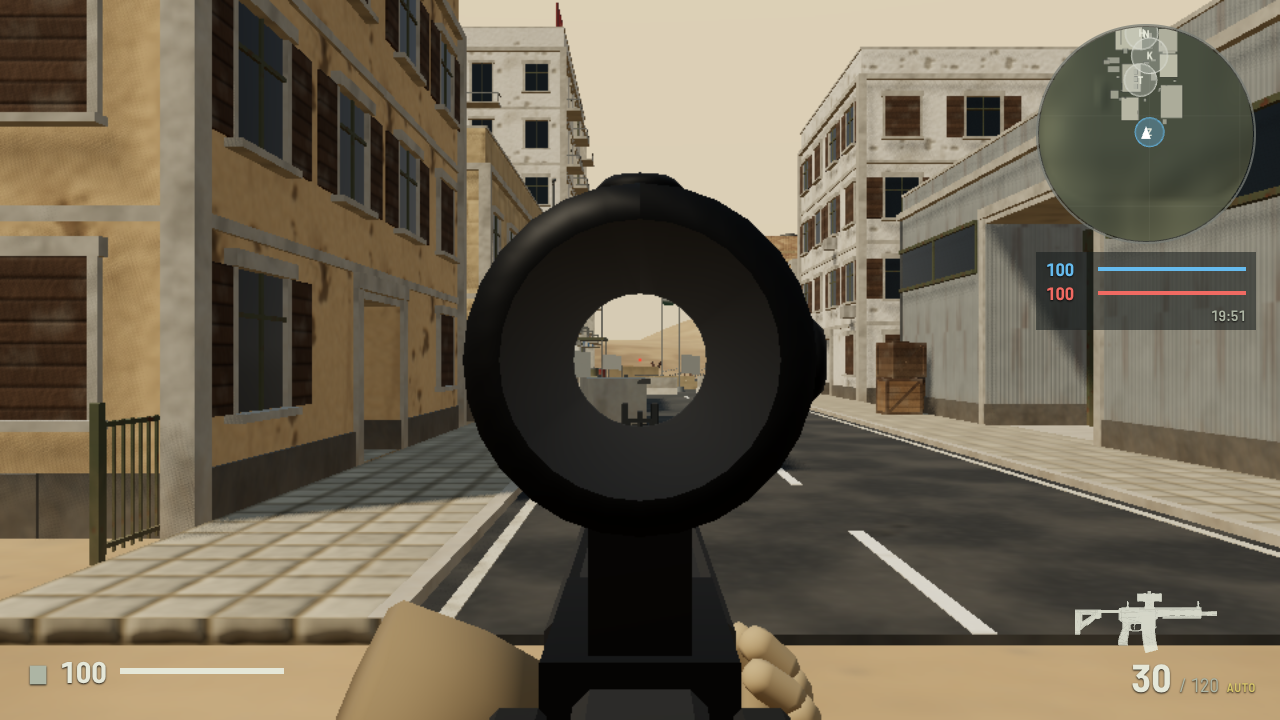
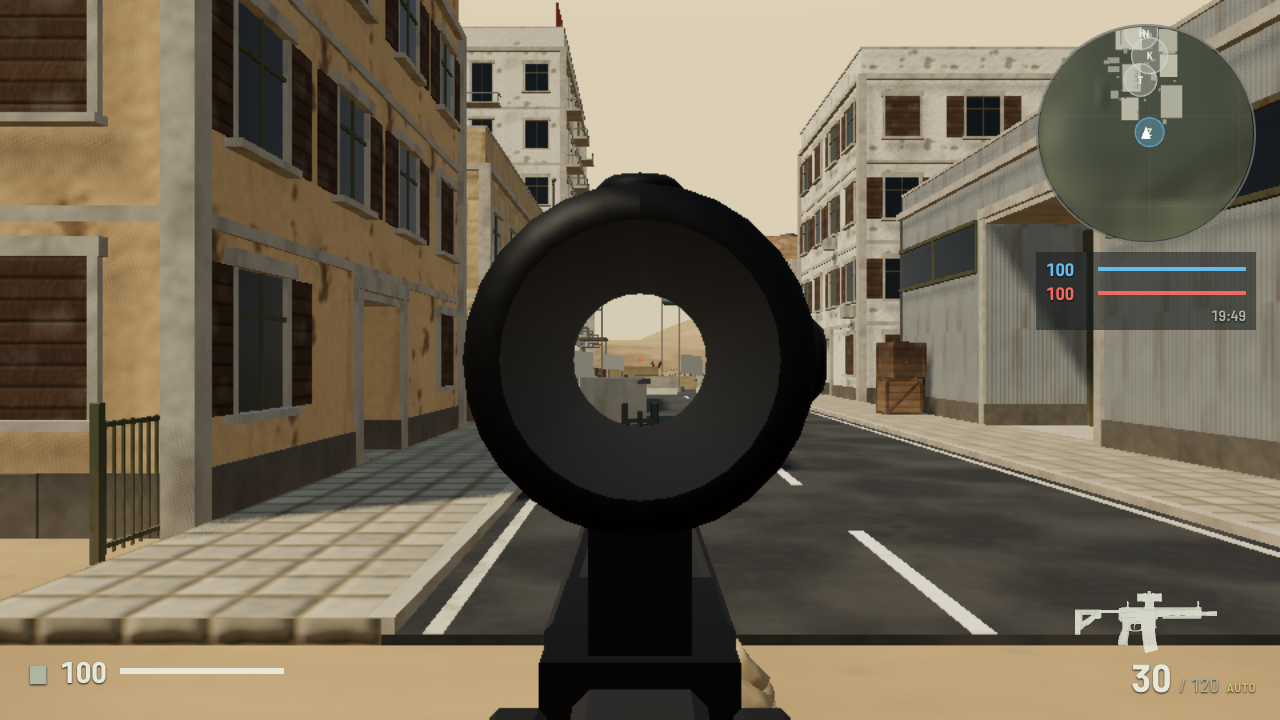
První osoba: paže z modelu Mannequin (IK ramen, prsty podle úchopu), nová póza zbraně (bok a zásobník viditelné), pistole vpravo dole
Claude-Session: https://claude.ai/code/session_01RUV9x3ZU17R7VZCUpn9NGM

Changed region(s): [[0.25, 0.825, 0.4375, 1.0], [0.5625, 0.8556, 0.6562, 1.0]]

diff --git a/src/client/render/weapons/fpArms.ts b/src/client/render/weapons/fpArms.ts
@@ -1,0 +1,199 @@
+import * as THREE from 'three';
+import { clone as cloneSkinned } from 'three/examples/jsm/utils/SkeletonUtils.js';
+import { mannequinSource } from '../soldier/mannequin';
+import type { Hand } from './hands';
+
+/**
+ * Paže v první osobě z modelu Quaternius Mannequin (CC0) – stejné tělo jako vzdálení vojáci.
+ * Kreslí se jen paže (rameno → prsty). Zápěstí, natočení dlaně a ohyb prstů přebírají
+ * z procedurálního rigu rukou (ten zná úchopy rukojeti, předpažbí, zásobníku i páky);
+ * rameno a loket dopočítá dvoukloubová IK s loktem dole a vně (mimo obraz).
+ */
+const ARM = /^(upperarm|lowerarm|hand|index|middle|ring|pinky|thumb)_/;
+const HANDISH = /^(hand|index|middle|ring|pinky|thumb)_/;
+const FINGERS = ['index', 'middle', 'ring', 'pinky'] as const;
+const HAND_SCALE = 0.75;
+
+interface Side {
+  s: 'l' | 'r';
+  upper: THREE.Bone;
+  lower: THREE.Bone;
+  hand: THREE.Bone;
+  /** Lokální směr prstů a hřbetu kosti ruky (klidová póza). */
+  fLocal: THREE.Vector3;
+  bLocal: THREE.Vector3;
+  fingers: Array<{ bone: THREE.Bone; rest: THREE.Quaternion; axis: THREE.Vector3 }[]>;
+  thumb: { bone: THREE.Bone; rest: THREE.Quaternion; axis: THREE.Vector3 }[];
+  lenUpper: number;
+  lenLower: number;
+}
+
+const _m = new THREE.Matrix4();
+const _q = new THREE.Quaternion();
+
+function basis(f: THREE.Vector3, b: THREE.Vector3): THREE.Quaternion {
+  const x = f.clone().normalize();
+  const y = b.clone().sub(x.clone().multiplyScalar(b.dot(x))).normalize();
+  const z = new THREE.Vector3().crossVectors(x, y);
+  return new THREE.Quaternion().setFromRotationMatrix(_m.makeBasis(x, y, z));
+}
+
+/** Nastaví světovou rotaci (a volitelně polohu) kosti přes inverzi rodiče. */
+function setWorld(bone: THREE.Bone, q: THREE.Quaternion, pos?: THREE.Vector3) {
+  const parent = bone.parent!;
+  parent.updateWorldMatrix(true, false);
+  parent.getWorldQuaternion(_q);
+  bone.quaternion.copy(_q.invert().multiply(q));
+  if (pos) bone.position.copy(parent.worldToLocal(pos.clone()));
+  bone.updateMatrixWorld(true);
+}
+
+export class FPArms {
+  readonly root = new THREE.Group();
+  private sides: Side[] = [];
+
+  /** `sleeve` a `glove` = materiály rukávu a rukavice (stejné jako u procedurálních rukou). */
+  constructor(sleeve: THREE.Material, glove: THREE.Material, gloveColor: THREE.ColorRepresentation) {
+    const src = mannequinSource()!;
+    const scene = cloneSkinned(src);
+    this.root.add(scene);
+    const bones = new Map<string, THREE.Bone>();
+    scene.traverse((o) => {
+      if ((o as THREE.Bone).isBone) bones.set(o.name, o as THREE.Bone);
+    });
+    // Geometrie: jen trojúhelníky paží; skupina 0 = rukáv, 1 = ruka (rukavice).
+    scene.traverse((o) => {
+      const m = o as THREE.SkinnedMesh;
+      if (!m.isSkinnedMesh) return;
+      m.geometry = armsOnly(m.geometry, m.skeleton, new THREE.Color(gloveColor));
+      m.material = [sleeve, glove];
+      m.frustumCulled = false;
+      m.castShadow = false;
+    });
+    scene.updateMatrixWorld(true);
+    for (const s of ['l', 'r'] as const) {
+      const B = (n: string) => bones.get(`${n}_${s}`)!;
+      const hand = B('hand');
+      const wq = hand.getWorldQuaternion(new THREE.Quaternion());
+      const hp = hand.getWorldPosition(new THREE.Vector3());
+      // T-póza: prsty vodorovně ven, dlaň dolů (hřbet +Y).
+      const fWorld = B('middle_01').getWorldPosition(new THREE.Vector3()).sub(hp).normalize();
+      const inv = wq.clone().invert();
+      const mk = (name: string) => {
+        const bone = bones.get(name)!;
+        const child = bone.children.find((c) => (c as THREE.Bone).isBone);
+        const p0 = bone.getWorldPosition(new THREE.Vector3());
+        const dir = child ? child.getWorldPosition(new THREE.Vector3()).sub(p0).normalize() : fWorld.clone();
+        // Osa ohybu: k dlani (−hřbet) → osa = hřbet × směr článku, v lokálním prostoru kosti.
+        const axisW = new THREE.Vector3(0, 1, 0).cross(dir).normalize();
+        const bq = bone.getWorldQuaternion(new THREE.Quaternion()).invert();
+        return { bone, rest: bone.quaternion.clone(), axis: axisW.applyQuaternion(bq).normalize() };
+      };
+      // Ruka Mannequinu (dlaň 12 cm) je větší než rig úchopů (8,8 cm) – zmenšit, ať prsty obejmou rukojeť.
+      hand.scale.setScalar(HAND_SCALE);
+      this.sides.push({
+        s,
+        upper: B('upperarm'),
+        lower: B('lowerarm'),
+        hand,
+        fLocal: fWorld.clone().applyQuaternion(inv),
+        bLocal: new THREE.Vector3(0, 1, 0).applyQuaternion(inv),
+        fingers: FINGERS.map((f) => [1, 2, 3].map((k) => mk(`${f}_0${k}_${s}`))),
+        thumb: [1, 2, 3].map((k) => mk(`thumb_0${k}_${s}`)),
+        lenUpper: B('lowerarm').position.length(),
+        lenLower: hand.position.length(),
+      });
+    }
+  }
+
+  /**
+   * Snímek: ruce (`right`, `left`) už stojí na úchopech; `space` = rodič paží (prezentace),
+   * ramena a lokty jsou v jeho souřadnicích.
+   */
+  update(right: Hand, left: Hand, space: THREE.Object3D, shoulders: { r: THREE.Vector3; l: THREE.Vector3 }, elbows: { r: THREE.Vector3; l: THREE.Vector3 }) {
+    space.updateWorldMatrix(true, false);
+    for (const side of this.sides) {
+      const h = side.s === 'r' ? right : left;
+      const fr = h.frame();
+      const shoulder = space.localToWorld((side.s === 'r' ? shoulders.r : shoulders.l).clone());
+      const pole = space.localToWorld((side.s === 'r' ? elbows.r : elbows.l).clone());
+      // Dvoukloubová IK: loket v rovině rameno–zápěstí–pól.
+      const a = side.lenUpper, b = side.lenLower;
+      const toW = fr.wrist.clone().sub(shoulder);
+      const d = Math.min(toW.length(), (a + b) * 0.999);
+      const dir = toW.clone().normalize();
+      const cosA = (a * a + d * d - b * b) / (2 * a * d);
+      const along = a * cosA, up = Math.sqrt(Math.max(0, a * a - along * along));
+      const pv = pole.clone().sub(shoulder);
+      const perp = pv.sub(dir.clone().multiplyScalar(pv.dot(dir))).normalize();
+      const elbow = shoulder.clone().add(dir.clone().multiplyScalar(along)).add(perp.multiplyScalar(up));
+      // Paže: osa kosti k dítěti → mířit na cíl (minimální rotace z klidu kosti).
+      this.aim(side.upper, side.lower, elbow, shoulder);
+      this.aim(side.lower, side.hand, fr.wrist);
+      // Ruka: prsty a hřbet z rigu, poloha = zápěstí.
+      const target = basis(fr.fingers, fr.back).multiply(basis(side.fLocal, side.bLocal).invert());
+      setWorld(side.hand, target, fr.wrist);
+      // Prsty a palec.
+      const c = h.curls();
+      side.fingers.forEach((chain, fi) => chain.forEach((j, k) => j.bone.quaternion.copy(j.rest).multiply(_q.setFromAxisAngle(j.axis, c.fingers[fi][k] ?? 0))));
+      // Palec: ohyb z rigu, zesílený (palec Mannequinu je v T-póze natažený podél prstů).
+      side.thumb.forEach((j, k) => j.bone.quaternion.copy(j.rest).multiply(_q.setFromAxisAngle(j.axis, 0.25 + (c.thumb[k] ?? 0) * 1.4)));
+    }
+  }
+
+  /** Natočí kost tak, aby mířila (ke svému dítěti) na bod `to`; `from` = nová poloha kořene. */
+  private aim(bone: THREE.Bone, child: THREE.Object3D, to: THREE.Vector3, from?: THREE.Vector3) {
+    if (from) {
+      bone.parent!.updateWorldMatrix(true, false);
+      bone.position.copy(bone.parent!.worldToLocal(from.clone()));
+    }
+    bone.updateMatrixWorld(true);
+    const p0 = bone.getWorldPosition(new THREE.Vector3());
+    const cur = child.getWorldPosition(new THREE.Vector3()).sub(p0).normalize();
+    const want = to.clone().sub(p0).normalize();
+    const wq = bone.getWorldQuaternion(new THREE.Quaternion()).premultiply(new THREE.Quaternion().setFromUnitVectors(cur, want));
+    setWorld(bone, wq);
+  }
+
+  dispose() {
+    this.root.removeFromParent();
+  }
+}
+
+/** Geometrie jen s trojúhelníky paží (dominantní kost), rozdělená na rukáv a ruku. */
+function armsOnly(src: THREE.BufferGeometry, sk: THREE.Skeleton, gloveColor: THREE.Color): THREE.BufferGeometry {
+  const g0 = src.index ? src.toNonIndexed() : src;
+  const si = g0.getAttribute('skinIndex'), sw = g0.getAttribute('skinWeight');
+  const sleeve: number[] = [], hand: number[] = [];
+  for (let i = 0; i < g0.getAttribute('position').count; i += 3) {
+    let best = 0, bw = -1;
+    for (let k = 0; k < 4; k++) if (sw.getComponent(i, k) > bw) {
+      bw = sw.getComponent(i, k);
+      best = si.getComponent(i, k);
+    }
+    const name = sk.bones[best]?.name ?? '';
+    if (!ARM.test(name)) continue;
+    (HANDISH.test(name) ? hand : sleeve).push(i, i + 1, i + 2);
+  }
+  const order = [...sleeve, ...hand];
+  const out = new THREE.BufferGeometry();
+  for (const [name, attr] of Object.entries(g0.attributes)) {
+    const a = attr as THREE.BufferAttribute;
+    const arr = new Float32Array(order.length * a.itemSize);
+    // Kvantované atributy (meshopt) → přes getX/Y/Z/W, které hodnoty denormalizují.
+    const get = [a.getX, a.getY, a.getZ, a.getW];
+    order.forEach((v, j) => {
+      for (let c = 0; c < a.itemSize; c++) arr[j * a.itemSize + c] = get[c].call(a, v);
+    });
+    out.setAttribute(name, new THREE.BufferAttribute(arr, a.itemSize));
+  }
+  // Barvy vrcholů: rukáv bílý (barvu dává kamufláž materiálu), ruka barvou rukavice / kůže.
+  const col = new Float32Array(order.length * 3).fill(1);
+  for (let j = sleeve.length; j < order.length; j++) col.set([gloveColor.r, gloveColor.g, gloveColor.b], j * 3);
+  out.setAttribute('color', new THREE.BufferAttribute(col, 3));
+  if (!out.getAttribute('uv')) out.setAttribute('uv', new THREE.BufferAttribute(new Float32Array(order.length * 2), 2));
+  out.addGroup(0, sleeve.length, 0);
+  out.addGroup(sleeve.length, hand.length, 1);
+  out.computeBoundingSphere();
+  return out;
+}

diff --git a/src/client/render/weapons/fpWeapon.ts b/src/client/render/weapons/fpWeapon.ts
@@ -7,6 +7,8 @@ import { mergeGeometries } from 'three/examples/jsm/utils/BufferGeometryUtils.js
 import type { WeaponModel } from './types';
 import { buildFirstPerson, weaponDef } from './catalog';
 import { HAND_LOOKS, Hand, POSES, buildHandGeometry, makeCamoTexture, type HandGeometry } from './hands';
+import { FPArms } from './fpArms';
+import { mannequinSource } from '../soldier/mannequin';
 
 /**
  * Zbraň a ruce v první osobě (libovolný hotový model z katalogu). Hierarchie:
@@ -76,6 +78,11 @@ export class FPWeapon {
   private weaponRoot = new THREE.Group();
   readonly model: WeaponModel;
   private handGeo: HandGeometry;
+  /** Paže z modelu (Mannequin), pokud je načtený; jinak se kreslí procedurální ruce. */
+  private arms: FPArms | null = null;
+  /** Ramena v prostoru pohledu (za a pod okem). */
+  shoulderR = new THREE.Vector3(0.19, -0.3, 0.06);
+  shoulderL = new THREE.Vector3(-0.2, -0.3, -0.02);
   private rightHand: Hand;
   private leftHand: Hand;
   private mag: THREE.Mesh;
@@ -214,6 +221,12 @@ export class FPWeapon {
     }
     this.rightHand.setPose(POSES.grip);
     this.leftHand.setPose(POSES.handguard);
+    if (mannequinSource()) {
+      this.arms = new FPArms(sleeve, glove, look.bare ? look.skin : look.glove);
+      this.presentation.add(this.arms.root);
+      this.rightHand.hideGeometry();
+      this.leftHand.hideGeometry();
+    }
 
     // Záblesk z ústí: zkřížené plochy s aditivní hvězdou (pool = 1 instance, náhodná rotace).
     this.flash = this.makeFlash();
@@ -338,21 +351,26 @@ export class FPWeapon {
       if (emptyBolt) target.lerp(bolt, boltT);
       target.lerp(base, home);
       this.leftHand.setPose(toMag > 0.5 && home < 0.5 && boltT < 0.5 ? POSES.magazine : POSES.handguard, 0.25);
-    } else this.leftHand.setPose(this.model.slideCycle ? POSES.grip : POSES.handguard, 0.3);
+    } else this.leftHand.setPose(this.model.slideCycle ? POSES.support : POSES.handguard, 0.3);
     lh.position.copy(target);
   }
+
+  /** Lokty v prostoru pohledu (mimo obraz): pravý vpravo dole u těla, levý vlevo dole pod předpažbím. */
+  elbowR = new THREE.Vector3(0.26, -0.5, 0.12);
+  elbowL = new THREE.Vector3(-0.26, -0.5, -0.02);
 
   /** Orientace předloktí od zápěstí k loktu mimo obraz (lokty v prostoru prezentace → svět). */
   private placeForearms() {
     this.presentation.updateMatrixWorld(true);
     for (const [h, elbowLocal] of [
-      [this.rightHand, new THREE.Vector3(0.26, -0.5, 0.12)],
-      [this.leftHand, new THREE.Vector3(-0.26, -0.5, -0.02)],
+      [this.rightHand, this.elbowR],
+      [this.leftHand, this.elbowL],
     ] as const) {
       const wristLocal = h.root.position.clone().applyMatrix4(this.weaponRoot.matrix);
       h.forearm.position.copy(wristLocal);
       h.forearm.lookAt(this.presentation.localToWorld(elbowLocal.clone()));
     }
+    this.arms?.update(this.rightHand, this.leftHand, this.presentation, { r: this.shoulderR, l: this.shoulderL }, { r: this.elbowR, l: this.elbowL });
   }
 
   /**

diff --git a/src/client/render/weapons/hands.ts b/src/client/render/weapons/hands.ts
@@ -45,8 +45,10 @@ export interface FingerPose {
   triggerOff?: boolean;
 }
 
-export const POSES: Record<'grip' | 'handguard' | 'magazine' | 'open', FingerPose> = {
+export const POSES: Record<'grip' | 'support' | 'handguard' | 'magazine' | 'open', FingerPose> = {
   grip: { fingers: [[0.15, 0.25, 0.2], [1.25, 1.35, 0.7], [1.3, 1.4, 0.75], [1.35, 1.4, 0.8]], thumb: [0.9, 0.4, 0.3], triggerOff: true },
+  /** Podpůrná ruka u pistole: celá dlaň obejme pravou ruku (bez prstu na spoušti). */
+  support: { fingers: [[1.1, 1.2, 0.6], [1.2, 1.3, 0.7], [1.25, 1.35, 0.7], [1.3, 1.35, 0.75]], thumb: [0.6, 0.3, 0.2] },
   handguard: { fingers: [[0.9, 1.1, 0.6], [1.0, 1.15, 0.65], [1.05, 1.2, 0.7], [1.1, 1.2, 0.7]], thumb: [0.4, 0.2, 0.1] },
   magazine: { fingers: [[0.9, 0.9, 0.5], [1.0, 1.0, 0.55], [1.05, 1.05, 0.6], [1.1, 1.1, 0.6]], thumb: [0.7, 0.5, 0.3] },
   open: { fingers: [[0.15, 0.2, 0.1], [0.2, 0.25, 0.1], [0.25, 0.25, 0.15], [0.3, 0.3, 0.15]], thumb: [0.5, 0.1, 0.05] },
@@ -116,6 +118,29 @@ export class Hand {
     arm.frustumCulled = false;
     this.forearm.add(arm);
     void mats.skin;
+  }
+
+  /** Rámec ruky pro model paží: zápěstí ve světě, směr prstů a hřbetu (zrcadlení už započtené). */
+  frame(): { wrist: THREE.Vector3; fingers: THREE.Vector3; back: THREE.Vector3 } {
+    const holder = this.root.children[0];
+    holder.updateWorldMatrix(true, false);
+    const o = holder.localToWorld(new THREE.Vector3());
+    return {
+      wrist: o,
+      fingers: holder.localToWorld(new THREE.Vector3(0, 0, -1)).sub(o).normalize(),
+      back: holder.localToWorld(new THREE.Vector3(0, 1, 0)).sub(o).normalize(),
+    };
+  }
+
+  /** Ohyb prstů (rad, kladně = sevřít): [ukazovák, prostředník, prsteník, malík][článek], palec [3]. */
+  curls(): { fingers: number[][]; thumb: number[] } {
+    return { fingers: this.bones.map((ch) => ch.map((b) => -b.rotation.x)), thumb: this.thumbB.map((b) => -b.rotation.x) };
+  }
+
+  /** Skryje vlastní geometrii ruky a předloktí (kreslí je model paží). */
+  hideGeometry() {
+    this.mesh.visible = false;
+    for (const c of this.forearm.children) c.visible = false;
   }
 
   setPose(p: FingerPose, blend = 1) {

diff --git a/src/client/render/weapons/glbWeapon.ts b/src/client/render/weapons/glbWeapon.ts
@@ -174,7 +174,7 @@ export function buildGlbWeapon(id: string, proc: WeaponModel): WeaponModel | nul
   })(), all.min.z);
   muzzle.z = Math.min(muzzle.z, all.min.z + 0.002);
   const pistol = proc.slideCycle === true;
-  const gripRight = trigger.clone().add(new THREE.Vector3(0, pistol ? -0.05 : -0.045, pistol ? 0.028 : 0.042));
+  const gripRight = trigger.clone().add(new THREE.Vector3(0, pistol ? -0.028 : -0.045, pistol ? 0.03 : 0.042));
   const pumpT = by(pumpBones);
   const pumpCenter = pumpT.length ? bounds(pumpT).getCenter(new THREE.Vector3()) : null;
   const railBottom = J('Attach_RailBottom');
@@ -284,7 +284,10 @@ export function buildGlbWeapon(id: string, proc: WeaponModel): WeaponModel | nul
   const staticG = geom(staticTris);
   const metal = metalOptic.length ? mergeLike(staticGeomFor(metalOptic)) : emptyLike();
   const procAdjust = proc.hipRoot.clone().sub(hipFromGrip(proc.points.gripRight));
-  const hipRoot = hipFromGrip(gripRight).add(procAdjust).add(new THREE.Vector3(...(spec.hipAdjust ?? [0, 0, 0])));
+  // Pistole: vpravo dole, natočená dopředu (ne svisle uprostřed obrazu).
+  const hipRoot = pistol
+    ? hipFromGrip(gripRight, [-0.02, 0.035, -0.044])
+    : hipFromGrip(gripRight).add(procAdjust).add(new THREE.Vector3(...(spec.hipAdjust ?? [0, 0, 0])));
   return {
     ...proc,
     id,
@@ -298,6 +301,8 @@ export function buildGlbWeapon(id: string, proc: WeaponModel): WeaponModel | nul
     sight: optic ? 'optic' : 'iron',
     points,
     hipRoot,
+    // Mírný náklon doprava: z pohledu hráče je vidět bok zbraně a zásobník, ne jen horní lišta.
+    hipRot: pistol ? new THREE.Euler(0.06, 0.1, -0.12) : new THREE.Euler(0.01, 0.02, -0.15),
     triangles: triCount(staticG, metal, mag.geometry, handle?.geometry, pump?.geometry, optic?.glass),
   };
 }

diff --git a/src/client/viewer.ts b/src/client/viewer.ts
@@ -7,7 +7,9 @@ import { reloadDuration } from '../shared/config/weapon';
 import { rulesOf } from '../shared/config/arsenal';
 import { FPWeapon } from './render/weapons/fpWeapon';
 import { preloadGunModels } from './render/weapons/glbWeapon';
-await preloadGunModels(import.meta.env.BASE_URL);
+import { preloadSoldierModel } from './render/soldier/mannequin';
+if (!new URLSearchParams(location.search).has('noarms')) await preloadSoldierModel(import.meta.env.BASE_URL);
+if (!new URLSearchParams(location.search).has('proc')) await preloadGunModels(import.meta.env.BASE_URL);
 import { HAND_LOOKS } from './render/weapons/hands';
 import { FACTION_LABEL, KIT_LABEL, SIDEARM_DEFS, WEAPON_DEFS, weaponDef } from './render/weapons/catalog';
 
@@ -86,6 +88,7 @@ function build() {
   fp?.dispose();
   fp = new FPWeapon($<HTMLSelectElement>('#weapon').value, $<HTMLSelectElement>('#hands').value, $<HTMLSelectElement>('#q').value as never);
   camera.add(fp.root);
+  (window as unknown as { __fp: FPWeapon }).__fp = fp;
   rebuildPoints();
 }
 

diff --git a/src/client/render/weapons/types.ts b/src/client/render/weapons/types.ts
@@ -71,7 +71,7 @@ export interface WeaponModel {
 }
 
 /** Referenční úchop M4A1 v pohledu: ostatní modely kladou hip pózu tak, aby rukojeť ležela na stejném místě. */
-const REF_GRIP_VIEW = new THREE.Vector3(0.15, -0.275, -0.285);
+const REF_GRIP_VIEW = new THREE.Vector3(0.16, -0.228, -0.294);
 
 export function hipFromGrip(gripRight: THREE.Vector3, adjust: [number, number, number] = [0, 0, 0]): THREE.Vector3 {
   return REF_GRIP_VIEW.clone().sub(gripRight).add(new THREE.Vector3(...adjust));

diff --git a/src/client/render/soldier/mannequin.ts b/src/client/render/soldier/mannequin.ts
@@ -69,6 +69,11 @@ export async function preloadSoldierModel(base = '/'): Promise<void> {
   }
 }
 
+/** Zdrojová scéna Mannequinu (pro paže v první osobě). */
+export function mannequinSource() {
+  return source?.scene ?? null;
+}
+
 export function hasMannequin() {
   return source !== null;
 }

diff --git a/ASSET_CREDITS.md b/ASSET_CREDITS.md
@@ -7,7 +7,7 @@
 | Všechny textury (omítky, beton, cihla, pískovec, dlažba, asfalt, písek, hlína, dřevo, kov, plátno, barva, terč) | procedurálně generované kódem `src/client/render/texgen.ts` | vlastní dílo projektu, žádný převzatý obrázek |
 | Velkoplošný šum (anti-tiling) | `makeMacroNoise()` v `src/client/render/materials.ts` | vlastní |
 | Geometrie objektů střelnice (kvádry, rampy, bedny, sudy, bariéry, pytle, cedule, terče) | generátory v `src/world/assets/` | vlastní, deterministické |
-| Ruce v první osobě, kolimátor, puškohled, záblesk, nábojnice; zbraně bez modelu z balíčku (M249, PKM, PLA) a záložní modely všech zbraní | `src/client/render/weapons/*` | vlastní programové modely; reference jen jako předloha proporcí |
+| Rig úchopů rukou v první osobě (záložní ruce), kolimátor, puškohled, záblesk, nábojnice; zbraně bez modelu z balíčku (M249, PKM, PLA) a záložní modely všech zbraní | `src/client/render/weapons/*` | vlastní programové modely; reference jen jako předloha proporcí |
 | Kamufláže rukávů | `makeCamoTexture()` | vlastní vzory (ne kopie BF2) |
 | Zvuky (výstřel, dopady, hitmarker) | `src/client/runtime/audio.ts` | syntetizované za běhu (WebAudio), žádné nahrávky |
 | Vojáci USMC / MEC (tělo, výstroj rolí, kostra, atlas uniforem, animace) | `src/client/render/soldier/*` | vlastní programový model a procedurální animace; obrazové reference sloužily jen jako popis siluety (nevloženy do textur) |
@@ -19,7 +19,7 @@
 |---|---|---|---|
 | CC0 Flat Guns West (Rifle_Assault, Sniper_Rifle, Pistol_Full) | Pichuliru – [OpenGameArt](https://opengameart.org/content/cc0-flat-guns-west), [itch.io](https://pichuliru.itch.io/cc0-flat-guns-west) | CC0 dle OpenGameArt (itch.io uvádí CC-BY 4.0 – autora proto vždy uvádíme) | `public/models/weapons/` – M4A1, M16A2, M24, M9 |
 | CC0 Flat Guns East (Rifle_Assault, Rifle_Battle, Shotgun_Auto, Shotgun_Pump, Sniper_Rifle, Pistol_Compact) | Pichuliru – [OpenGameArt](https://opengameart.org/node/137087), [itch.io](https://pichuliru.itch.io/cc0-flat-guns-east) | CC0 | AK-101, AKM, Saiga-12, Remington 870, SVD, PM |
-| Universal Animation Library [Standard] (Mannequin + klipy Idle, Walk, Jog, Sprint, Crouch, Jump, Death01, Hit_Chest) | Quaternius – [quaternius.com](https://quaternius.com) | CC0 1.0 (License.txt v balíčku) | `public/models/soldier/ual_soldier.glb` (zmenšeno skriptem `scripts/prepare-soldier.mjs`) – tělo vzdálených vojáků |
+| Universal Animation Library [Standard] (Mannequin + klipy Idle, Walk, Jog, Sprint, Crouch, Jump, Death01, Hit_Chest) | Quaternius – [quaternius.com](https://quaternius.com) | CC0 1.0 (License.txt v balíčku) | `public/models/soldier/ual_soldier.glb` (zmenšeno skriptem `scripts/prepare-soldier.mjs`) – tělo vzdálených vojáků a paže v první osobě (zápěstí a prsty řídí rig úchopů hry, paže IK) |
 
 Barvy materiálů, optika (kolimátor, puškohled), body úchopu a chování zbraní přidává hra;
 výstroj vojáků (helma, vesta, sumky) je vlastní procedurální model nasazený na tělo Mannequinu.
